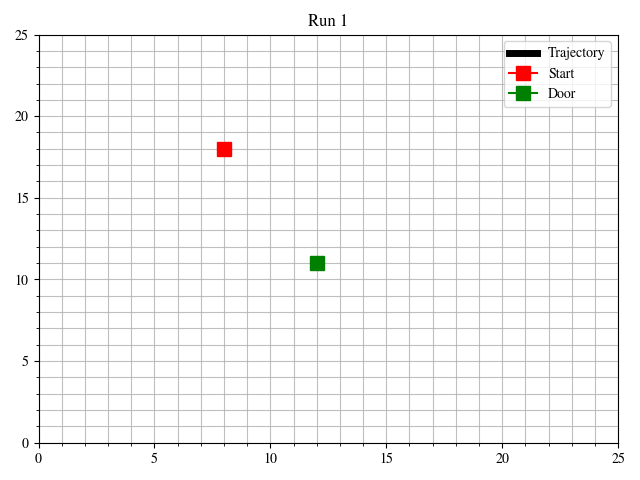
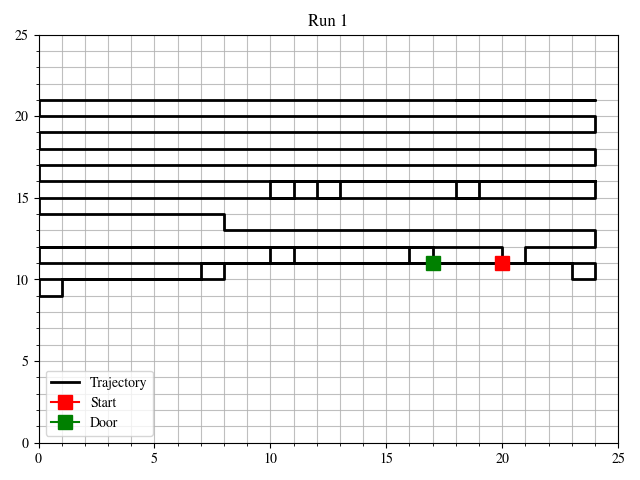
estimated entropy

Changed region(s): [[0.0625, 0.0938, 0.9688, 0.625], [0.0625, 0.7812, 0.25, 0.9062]]

diff --git a/HW4/Problem 2/HW4_2.py b/HW4/Problem 2/HW4_2.py
@@ -61,25 +61,30 @@ def get_pr0(gg, loc, i, j):
             return 0
     return 1/(gg**2 - len(np.unique(loc, axis=0)))
 
-def get_u(post, prior, loc, S, possib_u):
+def get_u(post, prior, loc, S, possib_u, gg, meas_prob):
     EdS = float('inf')
     min_u = np.array([0, 0])
     min_EdS = float('inf')
     for u in possib_u:
-        EdS = get_EdS(post, prior, loc[-1]+u, S, loc)
+        rj = loc[-1]+u
+        sim_loc = np.vstack((loc, rj))
+        EdS = get_EdS(post, prior, sim_loc, S, gg, meas_prob)
         #print(EdS)
         if EdS < min_EdS:
             min_EdS = EdS
             min_u = u
     return min_u
 
-def get_EdS(post, prior, rj, S, loc):
-    EdS = prior[int(rj[0]), int(rj[1])]*(-S) + (1-prior[int(rj[0]), int(rj[1])])*get_EdS_cond(post, rj, loc)
+def get_EdS(post, prior, sim_loc, S, gg, meas_prob):
+    rj = sim_loc[-1]
+    EdS = prior[int(rj[0]), int(rj[1])]*(-S) + (1-prior[int(rj[0]), int(rj[1])])*get_EdS_cond(post, sim_loc, gg, meas_prob, S)
     return EdS
 
-def get_EdS_cond(post, rj, loc): #TODO
-    EdS_cond = 0
-    return EdS_cond
+def get_EdS_cond(post, sim_loc, gg, meas_prob, S):
+    sim_meas = (np.random.random() < meas_prob[int(sim_loc[-1, 0]),int(sim_loc[-1, 1])])
+    post, update_loc = update_post(post, sim_meas, meas_prob[int(sim_loc[-1, 0]),int(sim_loc[-1, 1])], sim_loc, gg)
+    S2 = get_S(gg, post)
+    return S2 - S
 
 def get_S(gg, post):
     S = 0
@@ -126,15 +131,17 @@ def main():
 
         ### Search
         print(S)
-        while S != 0:
+        i = 0
+        while S != 0 and i < 500:
             meas = (np.random.random() < meas_prob[int(loc[-1, 0]),int(loc[-1, 1])])
             post, update_loc = update_post(post, meas, meas_prob[int(loc[-1, 0]),int(loc[-1, 1])], loc, gg)
-            S = get_S(gg, post)
-            #print(S)
-            u = get_u(post, prior, loc, S, update_loc) ### # of size (2,1): choose direction with highest expected entropy reduction
+            S = get_S(gg, post) # S != 0 if on door
+            print(S)
+            u = get_u(post, prior, loc, S, update_loc, gg, meas_prob) ### # of size (2,1): choose direction with highest expected entropy reduction
             loc = np.vstack((loc, loc[-1] + u))
             prior = post
-            print(loc[-1])
+            #print(loc[-1])
+            i += 1
 
         plotting.plot_trajectory(gg, door, loc, s)
     

diff --git a/HW4/Problem 2/plotting.py b/HW4/Problem 2/plotting.py
@@ -18,7 +18,7 @@ def plot_trajectory(gg, door, loc, s):
     axs.set_yticks(minor_ticks, minor=True)
     axs.grid(which='both', alpha=0.8)
 
-    axs.plot(loc[:, 0], loc[:, 1], color='k', linewidth='5', label='Trajectory')
+    axs.plot(loc[:, 0], loc[:, 1], color='k', linewidth='2', label='Trajectory')
     axs.plot(loc[0, 0], loc[0, 1], color='r', marker='s', markersize=10, label='Start')
     axs.plot(door[0], door[1], color='g', marker='s', markersize=10, label='Door')
 
